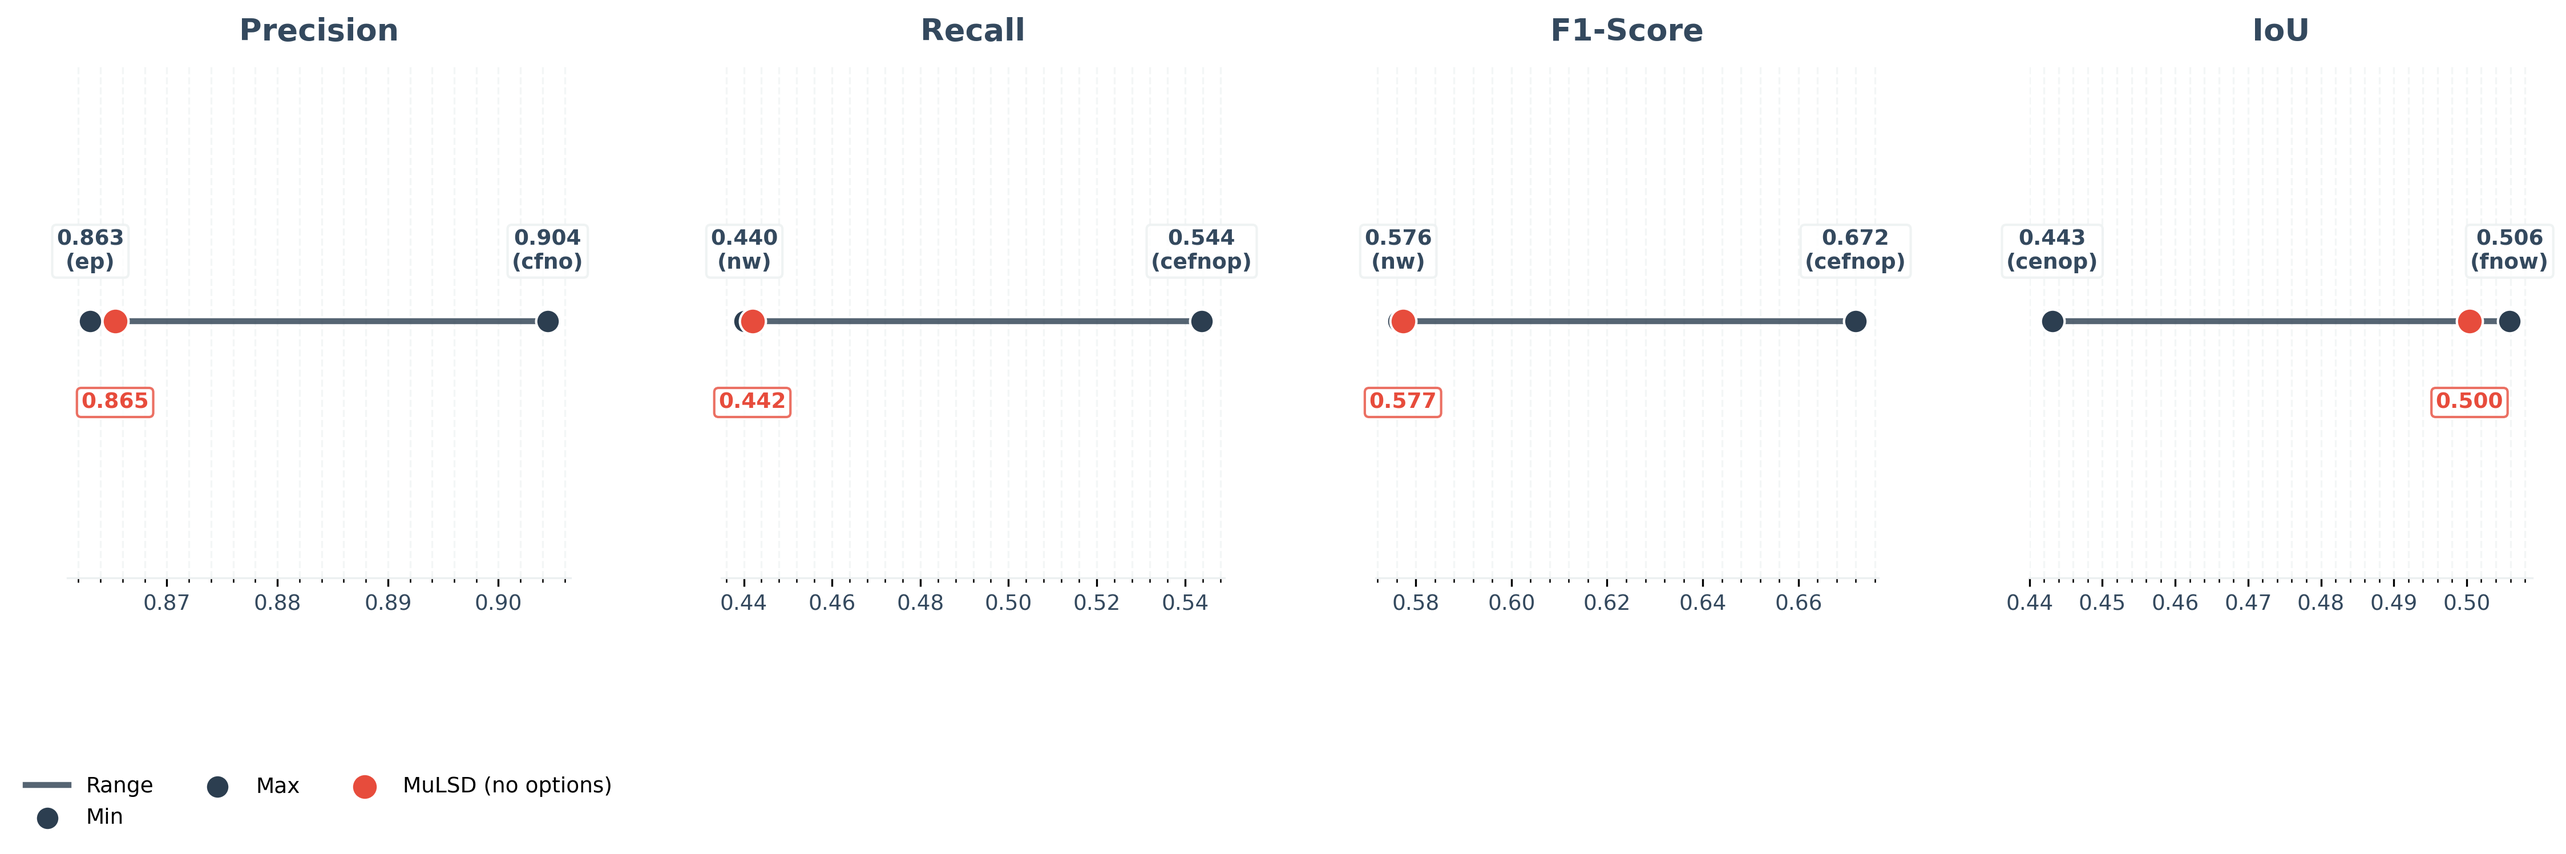
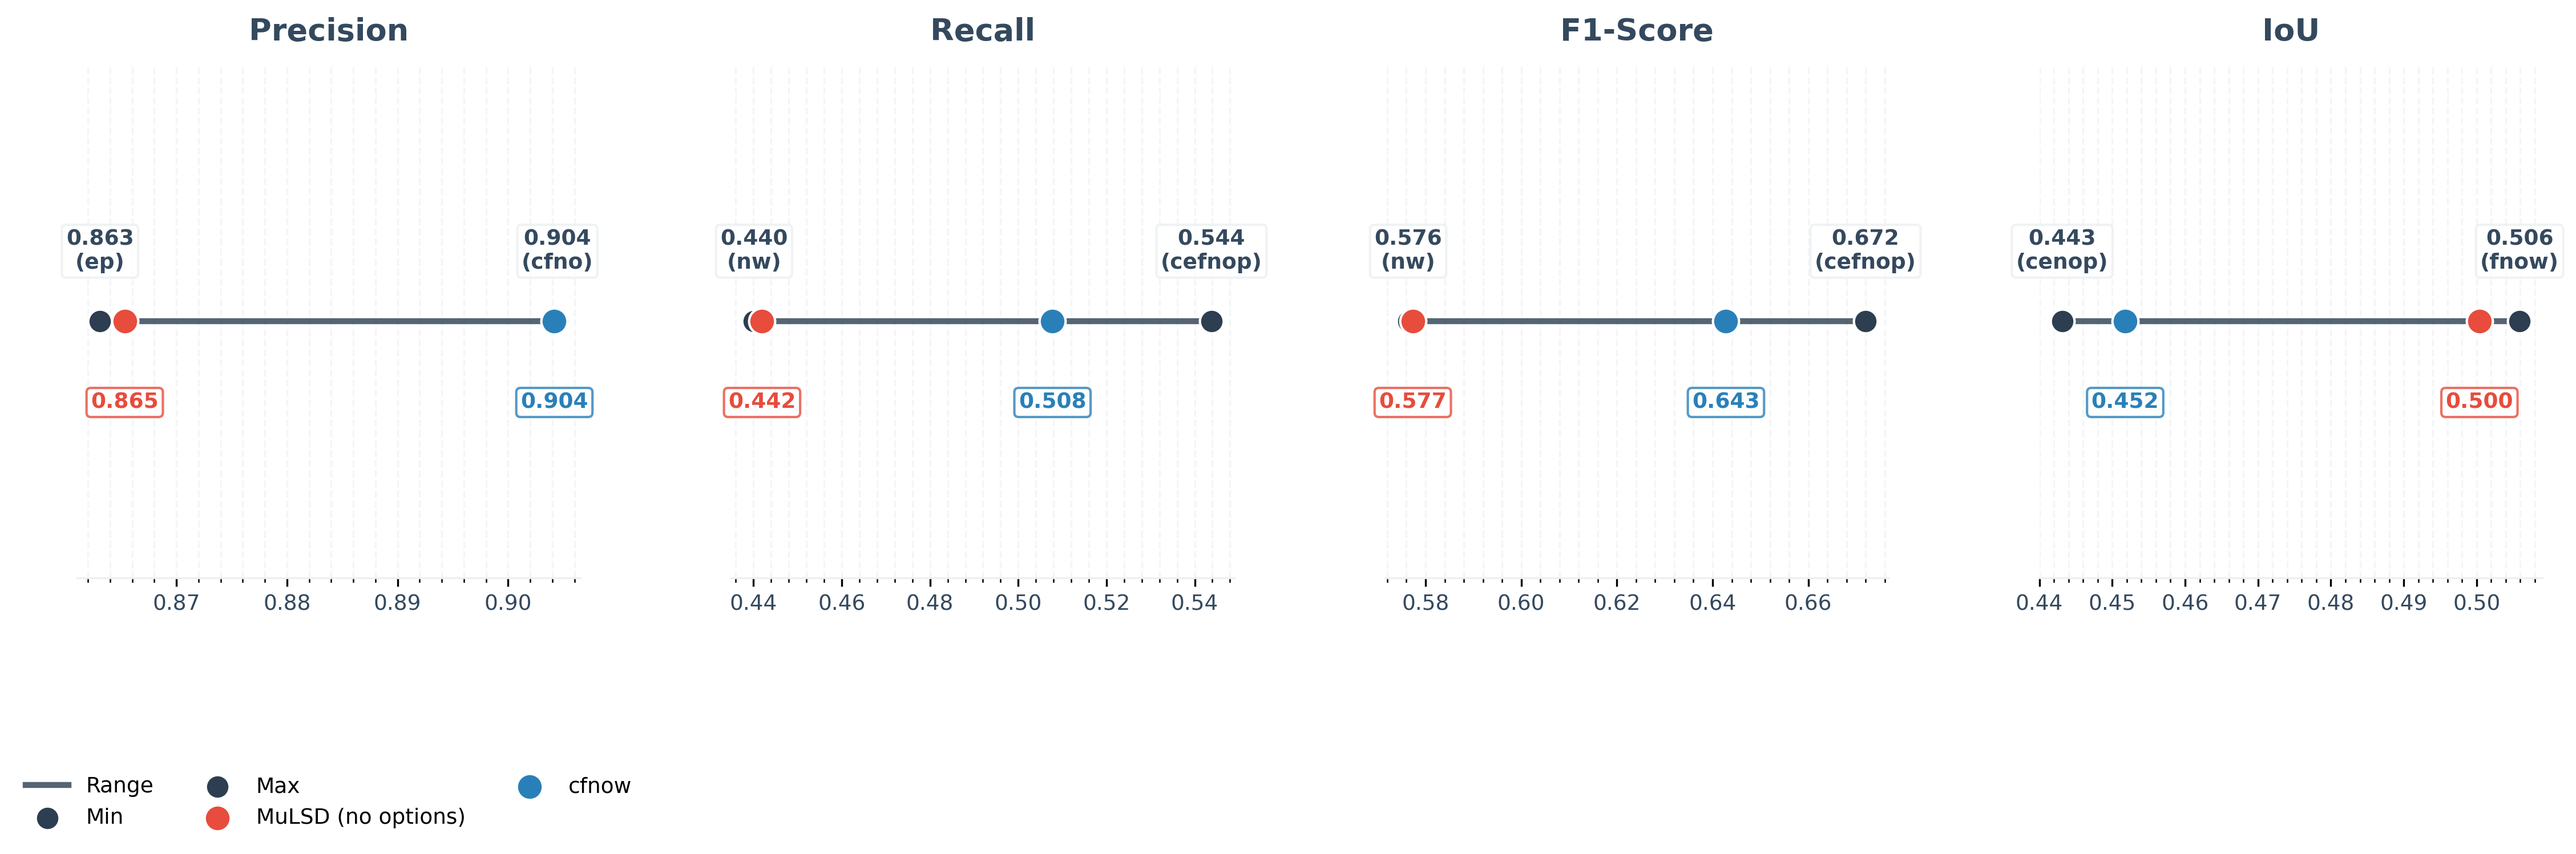
Refactor benchmark management: remove obsolete Makefile, enhance benchmark evaluation and comparison functions, and add Wilcoxon test plotting.

diff --git a/eval.py b/eval.py
@@ -2,6 +2,7 @@
 from collections import defaultdict
 import glob
 import os
+from typing import cast
 import matplotlib.pyplot as plt
 from matplotlib.ticker import AutoMinorLocator
 import numpy as np
@@ -10,6 +11,7 @@ from config import PATH_CURRENT_FOLDER  # type: ignore
 from loguru import logger
 
 from models import BenchmarkScore, Scores, ImageScores  # type: ignore
+from scipy.stats import wilcoxon
 
 
 def extract_scores_from_benchmarks(
@@ -41,9 +43,9 @@ def extract_scores_from_benchmarks(
                 if "=" in content:
                     metrics_str = content.split("=")[1].strip()
                     metrics = metrics_str.split()
-                    logger.debug(
-                        f"Extracted metrics for Options:{options} - Image:{image_name}: {metrics}"
-                    )
+                    # logger.debug(
+                    #     f"Extracted metrics for Options:{options} - Image:{image_name}: {metrics}"
+                    # )
                     benchmark_score.scores.append(
                         ImageScores(
                             image_name=image_name,
@@ -56,7 +58,7 @@ def extract_scores_from_benchmarks(
                 else:
                     logger.warning(f"Unexpected format in {score_file}: {content}")
                     benchmark_score.scores.append(
-                        Scores(
+                        ImageScores(
                             image_name=image_name,
                             precision=None,
                             recall=None,
@@ -72,10 +74,148 @@ def extract_scores_from_benchmarks(
     return all_benchmark_scores
 
 
+def get_benchmark_score_from_options(
+    options: str, benchmarks: list[BenchmarkScore]
+) -> BenchmarkScore | None:
+    """Retrieve the average Scores for a given options string from the benchmarks list. Return None if not found or if there are several matches."""
+    matching_benchmarks = [bm for bm in benchmarks if bm.options == options]
+    if not matching_benchmarks:
+        return None
+    if len(matching_benchmarks) > 1:
+        logger.warning(
+            f"Multiple benchmarks found for options '{options}': {matching_benchmarks}"
+        )
+        return None
+    return matching_benchmarks[0]
+
+
+def compare_benchmarks(
+    options1: str, options2: str, benchmarks: list[BenchmarkScore]
+) -> None | list[ImageScores]:
+    """Compare two benchmarks given their options strings."""
+    logger.info(f"Comparing benchmarks '{options1}' and '{options2}'")
+    bm1 = get_benchmark_score_from_options(options1, benchmarks)
+    bm2 = get_benchmark_score_from_options(options2, benchmarks)
+
+    if bm1 is None:
+        logger.error(f"No benchmark found for options '{options1}'")
+        return None
+    if bm2 is None:
+        logger.error(f"No benchmark found for options '{options2}'")
+        return None
+
+    # Return the scores difference for each images present in both benchmarks
+    scores_diff: list[ImageScores] = []
+    images_bm1 = {s.image_name: s for s in bm1.scores}
+    images_bm2 = {s.image_name: s for s in bm2.scores}
+    common_images = set(images_bm1.keys()).intersection(set(images_bm2.keys()))
+    for image_name in common_images:
+        score1 = images_bm1[image_name]
+        score2 = images_bm2[image_name]
+        scores_diff.append(
+            ImageScores(
+                image_name=image_name,
+                precision=(
+                    abs(score2.precision - score1.precision)
+                    if score1.precision is not None and score2.precision is not None
+                    else None
+                ),
+                recall=(
+                    abs(score2.recall - score1.recall)
+                    if score1.recall is not None and score2.recall is not None
+                    else None
+                ),
+                f1_score=(
+                    abs(score2.f1_score - score1.f1_score)
+                    if score1.f1_score is not None and score2.f1_score is not None
+                    else None
+                ),
+                iou=(
+                    abs(score2.iou - score1.iou)
+                    if score1.iou is not None and score2.iou is not None
+                    else None
+                ),
+            )
+        )
+    logger.info(
+        f"Compared benchmarks '{options1}' and '{options2}' on {len(common_images)} common images."
+    )
+    return scores_diff
+
+
+def test_wilcoxon(
+    option: str, benchmarks: list[BenchmarkScore]
+) -> dict[str, float] | None:
+    """Perform Wilcoxon signed-rank test between the benchmark with the given option and the benchmark without any options.
+    Returns a dict of {metric: p_value} for each metric, or None if not enough data.
+    """
+    bm_with = get_benchmark_score_from_options(option, benchmarks)
+    bm_without = get_benchmark_score_from_options("", benchmarks)
+
+    if bm_with is None or bm_without is None:
+        logger.error(f"Could not find benchmarks for option '{option}' or no options.")
+        return None
+
+    # Match scores by image name
+    scores_with = {s.image_name: s for s in bm_with.scores}
+    scores_without = {s.image_name: s for s in bm_without.scores}
+    common_images = set(scores_with.keys()).intersection(set(scores_without.keys()))
+
+    if not common_images:
+        logger.error(
+            f"No common images found between option '{option}' and no options."
+        )
+        return None
+
+    metrics = ["precision", "recall", "f1_score", "iou"]
+    p_values: dict[str, float] = {}
+    for metric in metrics:
+        data_with = []
+        data_without = []
+        for image_name in common_images:
+            score_with = getattr(scores_with[image_name], metric)
+            score_without = getattr(scores_without[image_name], metric)
+            if score_with is not None and score_without is not None:
+                data_with.append(score_with)
+                data_without.append(score_without)
+
+        if len(data_with) < 10:
+            logger.warning(
+                f"Not enough data points for Wilcoxon test on metric '{metric}' with option '{option}'."
+            )
+            continue
+
+        stat, p_value = wilcoxon(data_with, data_without)
+        logger.info(
+            f"Wilcoxon test for metric '{metric}' with option '{option}': statistic={stat}, p-value={p_value}"
+        )
+        p_values[metric] = float(p_value)
+
+    return p_values if p_values else None
+
+
+def get_top3_diff_images(
+    diff_scores: list[ImageScores],
+) -> dict[str, list[tuple[str, float]]]:
+    """
+    Returns the top 3 images with the biggest absolute difference for each metric.
+    Returns a dict: {metric: [(image_name, diff_value), ...]}
+    """
+    metrics = ["precision", "recall", "f1_score", "iou"]
+    top_images = {}
+    for metric in metrics:
+        filtered = [s for s in diff_scores if getattr(s, metric) is not None]
+        sorted_scores = sorted(
+            filtered, key=lambda s: getattr(s, metric), reverse=True
+        )[:3]
+        top_images[metric] = [(s.image_name, getattr(s, metric)) for s in sorted_scores]
+    return top_images
+
+
 def plot_benchmark_ranges(benchmarks: list[BenchmarkScore]) -> None:
     """
     Plot min-max ranges for precision, recall, f1, and IoU across benchmarks.
-    Highlights 'muLSD' or 'no options' in red, and displays the options for min/max values.
+    Highlights 'muLSD', 'no options', and 'fno' in red, and displays the options for min/max values.
     """
     metrics = ["precision", "recall", "f1_score", "iou"]
     metric_labels = {
@@ -86,11 +226,10 @@ def plot_benchmark_ranges(benchmarks: list[BenchmarkScore]) -> None:
     }
     colors = {
         "min_max": "#2c3e50",  # Dark blue-gray for min/max line
-        "muLSD": "#e74c3c",  # Red for muLSD/no options
+        "muLSD": "#e74c3c",  # Red for muLSD/no options/fno
         "text": "#34495e",  # Dark gray for text
         "grid": "#ecf0f1",  # Light gray for grid
     }
-
     fig, axes = plt.subplots(1, len(metrics), figsize=(16, 5), sharey=True)
     fig.patch.set_facecolor("white")  # Set background to white
     plt.subplots_adjust(wspace=0.3, left=0.05, right=0.95, top=0.9, bottom=0.3)
@@ -105,7 +244,6 @@ def plot_benchmark_ranges(benchmarks: list[BenchmarkScore]) -> None:
             for opt, s in avg_scores_dict.items()
             if getattr(s, metric) is not None
         }
-
         if not values:
             ax.set_title(
                 metric_labels[metric],
@@ -191,37 +329,42 @@ def plot_benchmark_ranges(benchmarks: list[BenchmarkScore]) -> None:
             ),
         )
 
-        # Highlight muLSD
-        if "muLSD" in values or "" in values:
-            key = "muLSD" if "muLSD" in values else ""
-            red_val = values[key]
-            ax.scatter(
-                [red_val],
-                [0],
-                color=colors["muLSD"],
-                s=120,
-                edgecolor="white",
-                linewidth=1,
-                zorder=4,
-                label=key if key else "MuLSD (no options)",
-            )
-            ax.annotate(
-                f"{red_val:.3f}\n({key} )" if key else f"{red_val:.3f}",
-                xy=(red_val, 0),
-                xytext=(0, -30),
-                textcoords="offset points",
-                ha="center",
-                va="top",
-                fontsize=9,
-                color=colors["muLSD"],
-                fontweight="bold",
-                bbox=dict(
-                    boxstyle="round,pad=0.2",
-                    fc="white",
-                    alpha=0.8,
-                    edgecolor=colors["muLSD"],
-                ),
-            )
+        # Highlight muLSD, no options, and cfno with different colors
+        highlighted_options = [
+            ("muLSD", "#e74c3c"),  # Red
+            ("", "#e74c3c"),
+            ("cfnow", "#2980b9"),  # Blue for cfno
+        ]
+        for opt, color in highlighted_options:
+            if opt in values:
+                val = values[opt]
+                ax.scatter(
+                    [val],
+                    [0],
+                    color=color,
+                    s=120,
+                    edgecolor="white",
+                    linewidth=1,
+                    zorder=4,
+                    label=opt if opt else "MuLSD (no options)",
+                )
+                ax.annotate(
+                    f"{val:.3f}\n({opt})" if (opt and opt != "cfnow") else f"{val:.3f}",
+                    xy=(val, 0),
+                    xytext=(0, -30),
+                    textcoords="offset points",
+                    ha="center",
+                    va="top",
+                    fontsize=9,
+                    color=color,
+                    fontweight="bold",
+                    bbox=dict(
+                        boxstyle="round,pad=0.2",
+                        fc="white",
+                        alpha=0.8,
+                        edgecolor=color,
+                    ),
+                )
 
         # Style the axis
         ax.set_title(
@@ -386,8 +529,64 @@ def analyze_option_effects(benchmarks: list[BenchmarkScore]) -> None:
     logger.success(f"Saved option effects figure to {out_file}")
 
 
+def plot_wilcoxon_results(
+    benchmarks: list[BenchmarkScore], output_file: str = "wilcoxon_pvalues.png"
+) -> None:
+    """
+    For each option, perform Wilcoxon test and plot p-values for each metric.
+    """
+    unique_options_set = set[str]()
+    for bm in benchmarks:
+        unique_options_set.update(bm.options)
+    unique_options_list = sorted(unique_options_set)
+
+    metrics = ["precision", "recall", "f1_score", "iou"]
+    p_values_dict: dict[str, dict[str, float]] = {metric: {} for metric in metrics}
+
+    for option in unique_options_list:
+        p_values = test_wilcoxon(option, benchmarks)
+        if p_values:
+            for metric in metrics:
+                if metric in p_values:
+                    p_values_dict[metric][option] = p_values[metric]
+
+    # Plotting
+    fig, axes = plt.subplots(len(metrics), 1, figsize=(10, 12), sharex=True)
+    for i, metric in enumerate(metrics):
+        ax = axes[i]
+        options = list(p_values_dict[metric].keys())
+        p_values = [p_values_dict[metric][opt] for opt in options]
+        ax.bar(options, p_values, color="skyblue")
+        ax.axhline(0.05, color="red", linestyle="--", label="Significance level (0.05)")
+        ax.set_title(f"Wilcoxon p-values for {metric.capitalize()}")
+        ax.set_ylabel("p-value")
+        ax.set_ylim(0, 1)
+        ax.legend()
+        ax.grid(axis="y")
+
+    plt.xticks(rotation=45)
+    plt.tight_layout()
+    plt.savefig(output_file, dpi=300, bbox_inches="tight")
+    logger.success(f"Saved Wilcoxon p-values figure to {output_file}")
+
+
 if __name__ == "__main__":
     all_benchmark_scores = extract_scores_from_benchmarks()
     logger.info(f"Number of average scores: {len(all_benchmark_scores)}")
     plot_benchmark_ranges(all_benchmark_scores)
     analyze_option_effects(all_benchmark_scores)
+    plot_wilcoxon_results(all_benchmark_scores)
+
+    # Compare max and min benchmarks for 4 metrics
+    diff_scores = compare_benchmarks(
+        options1="", options2="cenop", benchmarks=all_benchmark_scores
+    )
+    if diff_scores is None:
+        logger.error("Could not compare benchmarks.")
+
+    else:
+        top3_diffs = get_top3_diff_images(diff_scores)
+        for metric, top_images in top3_diffs.items():
+            logger.info(f"Top 3 images with biggest {metric} difference:")
+            for image_name, diff_value in top_images:
+                logger.info(f"  {image_name}: {diff_value:.4f}")

diff --git a/main.py b/main.py
@@ -2,6 +2,7 @@ import glob
 import shutil
 import os
 import subprocess
+import sys
 from loguru import logger
 from build_benchmark import create_specialized_benchmark, setup_benchmark_environment  # type: ignore
 import argparse
@@ -95,6 +96,8 @@ def main():
         help="Create and run all specialized benchmarks",
     )
     args = parser.parse_args()
+
+    logger.debug(f"Parsed arguments: {args}")
 
     # If no args are provided, run all
     if not any(vars(args).values()):

diff --git a/build_benchmark.py b/build_benchmark.py
@@ -312,6 +312,3 @@ def create_specialized_benchmark(options: set[str]) -> None:
 
     modify_makefile_for_options(specialized_benchmark_folder, options)
     logger.info(f"Created specialized benchmark folder: {specialized_benchmark_folder}")
-
-
-setup_benchmark_environment()
